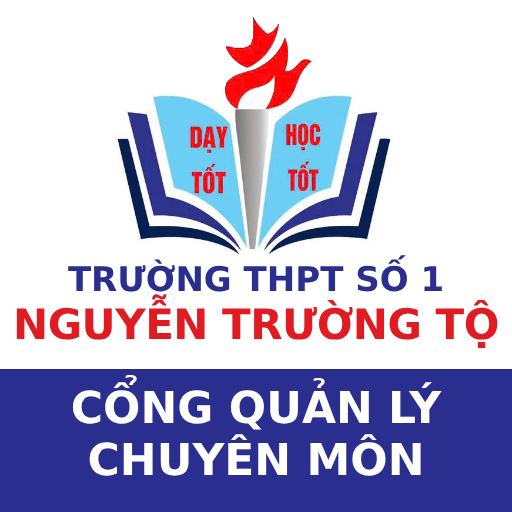
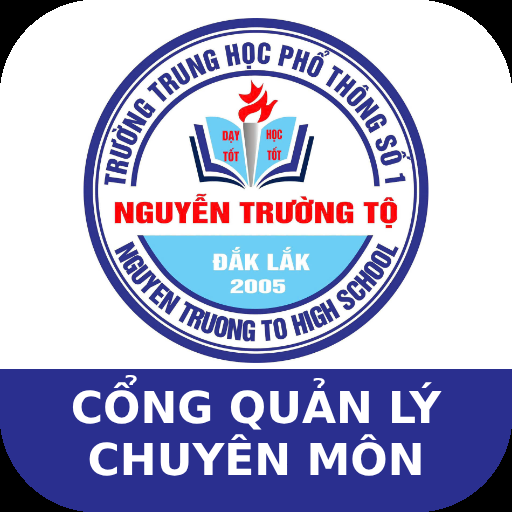
Add files via upload

diff --git a/index.html b/index.html
@@ -1,5 +1,5 @@
 <!doctype html>
-<!-- Trang cửa vào QLCM NTTO – bản 1.2 (25/10/2026): đổi tên app thành "QLCM NTTO" (1.1: biểu tượng mẫu A, logo tròn đầu trang) -->
+<!-- Trang cửa vào QLCM NTTO – bản 1.3 (26/10/2026): icon.png bo góc (máy tính, Android), apple-touch-icon.png nền trắng góc vuông cho iPhone (iPhone tự bo góc, ảnh trong suốt sẽ bị góc đen) – bản 1.2 (25/10/2026): đổi tên app thành "QLCM NTTO" (1.1: biểu tượng mẫu A, logo tròn đầu trang) -->
 <html lang="vi">
 <head>
 <meta charset="utf-8">
@@ -11,7 +11,7 @@
 <meta name="application-name" content="QLCM NTTO">
 <link rel="manifest" href="manifest.json">
 <link rel="icon" type="image/png" href="icon.png">
-<link rel="apple-touch-icon" href="icon.png">
+<link rel="apple-touch-icon" href="apple-touch-icon.png">
 <script>
   // ====== LINK CHƯƠNG TRÌNH (đổi link triển khai thì chỉ sửa dòng này) ======
   var LINK = 'https://script.google.com/macros/s/AKfycbzzNuCsRr-Ju7RQ_zPe4y6nRfZ1MBUGZacjhiSSIBOpMvofdxHvug_XMTYlkBjS8KW-uw/exec';
